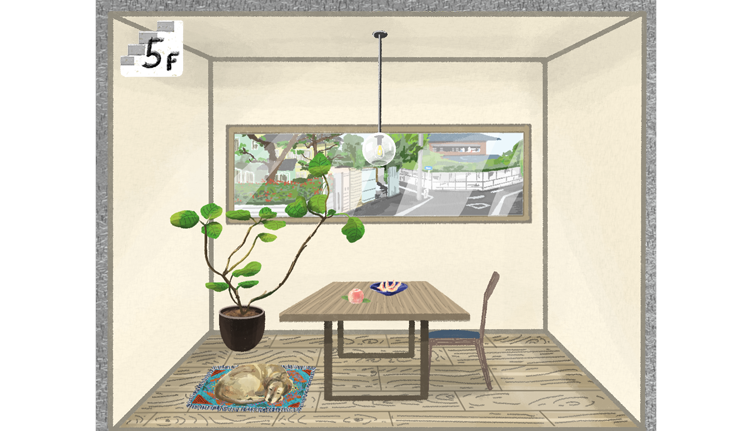
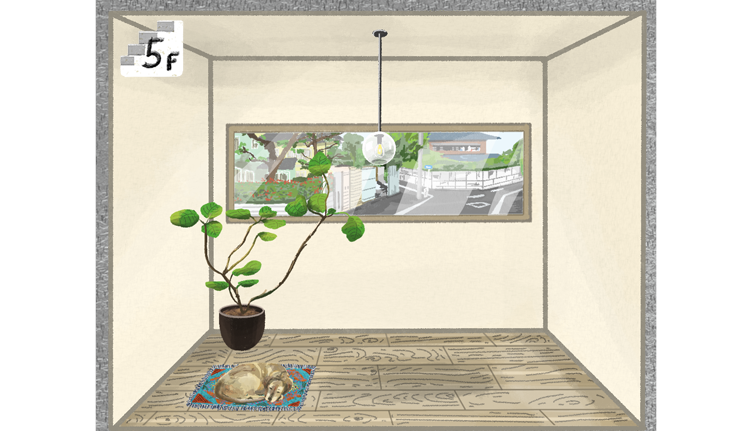
Floorを３レイヤ化。LivingModalの個別相談ボタンを色分け。ProjectionModalを実装途中。

diff --git a/src/components/virtualSpace/resident/modal/projectionModal.tsx b/src/components/virtualSpace/resident/modal/projectionModal.tsx
@@ -29,7 +29,7 @@ const useStyles = makeStyles((theme: Theme) =>
     programs: {
       display: "flex",
       flexFlow: "wrap",
-      marginBottom: '20px',
+      marginBottom: '30px',
     },
     buttonConcierge: {
       position: "fixed",
@@ -46,6 +46,11 @@ const useStyles = makeStyles((theme: Theme) =>
       marginBottom: "30px",
       borderWidth: "2px",
       margin: "0 auto",
+    },
+    guests: {
+      display: "flex",
+      justifyContent: 'center',
+      alignItems: 'center',
     },
   })
 );
@@ -79,40 +84,46 @@ const ProjectionModal: React.FC<IProjectionModalProps> = (props) => {
 
   const programs = [
     {
-      title: "参加者へのアンケート",
-      subtitle: "アイスブレイク",
-      start: "00:00",
-      end: "00:00",
+      title: "オープニング",
+      subtitle: "",
+      start: "10:00",
+      end: "",
     },
     {
-      title: "地方だからこそ！地方の魅力的な仕事",
-      subtitle: "しごとトークセッション①",
-      start: "00:00",
-      end: "00:00",
+      title: "求人票ではわからない、地方企業の魅力",
+      subtitle: "地方での就職セミナー",
+      start: "10:10",
+      end: "10:45",
     },
     {
-      title: "地方で求められる人材像とは",
-      subtitle: "しごとトークセッション②",
-      start: "00:00",
-      end: "00:00",
+      title: "都会での仕事にモヤモヤ？？「地方ならではの仕事の流儀」お伝えします！",
+      subtitle: "今だからこそ、聞いておきたい！先輩移住者トーク①",
+      start: "11:00",
+      end: "11:40",
     },
     {
-      title: "空き家 × 自然くらし",
-      subtitle: "ゲストトーク① 会津地域",
-      start: "00:00",
-      end: "00:00",
+      title: "市町村PR（ランチタイムトーク）",
+      subtitle: "",
+      start: "12:00",
+      end: "12:40",
     },
     {
-      title: "まちの仕掛人 × 街なかくらし",
-      subtitle: "ゲストトーク② 中通り地域",
-      start: "00:00",
-      end: "00:00",
+      title: "人と人とのつながりで生まれる、\n空き家を通じた地域活性化とは？",
+      subtitle: "今だからこそ、聞いておきたい！先輩移住者トーク①",
+      start: "14:00",
+      end: "14:40",
     },
     {
-      title: "サーフィン × 海のあるくらし",
-      subtitle: "ゲストトーク③ 浜通り地域",
-      start: "00:00",
-      end: "00:00",
+      title: "市町村PR（おやつタイムトーク）",
+      subtitle: "",
+      start: "15:00",
+      end: "15:40",
+    },
+    {
+      title: "終了",
+      subtitle: "",
+      start: "",
+      end: "17:00",
     },
   ].map((p, i) => <Program {...p} key={i} />);
 
@@ -141,6 +152,26 @@ const ProjectionModal: React.FC<IProjectionModalProps> = (props) => {
           プログラム
         </Typography>
         <ul className={classes.programs}>{programs}</ul>
+        <Typography variant="h3" className={classes.h3}>
+          ゲスト
+        </Typography>
+        <GuestLabel text={"地方での就職セミナー"} />
+        <Guest image={'image'} name={"金内　正"} job={'一般社団法人キャリア支援機構 理事長'} />
+        <GuestLabel text={"先輩移住者トーク①"} />
+        <div className={classes.guests}>
+          <Guest image={'image'} name={"斎藤　拓哉"} job={'空き家てらす\n隠れ家ゲストハウス'} />
+          <Guest image={'image'} name={"齋藤　康平"} job={'空き家てらす(株)\nなちゅらる'} />
+        </div>
+        <GuestLabel text={"先輩移住者トーク②"} />
+        <div className={classes.guests}>
+          <Guest image={'image'} name={"渡部　允道"} job={'ヘルベチカデザイン（株）\nまちの人事部'} />
+          <Guest image={'image'} name={"上神田　健太"} job={'家守舎桃ノ音アカリ\nFUKUSHIMA BONCHI'} />
+        </div>
+        <GuestLabel text={"先輩移住者トーク③"} />
+        <div className={classes.guests}>
+          <Guest image={'image'} name={"大和田　智之"} job={'南相馬市役所観光交流課\n交流推進係'} />
+          <Guest image={'image'} name={"後藤　彩"} job={'南相馬へ\nサーフィンに通う'} />
+        </div>
         <BackButton onClick={props.closeModal} />
       </Modal>
       {props.open && (
@@ -170,9 +201,12 @@ const useStylesProgram = makeStyles((theme: Theme) =>
       width: "100%",
       display: "flex",
       borderTop: "1px solid #000000",
-      padding: "5px",
+      paddingLeft: "5px",
+      paddingRight: "5px",
+      paddingTop: "10px",
+      paddingBottom: "10px",
       "&:nth-child(odd)": {
-        backgroundColor: "#ebebeb",
+        backgroundColor: "#fbedef",
       },
       "&:last-child": {
         borderBottom: "1px solid #000000",
@@ -198,9 +232,15 @@ const useStylesProgram = makeStyles((theme: Theme) =>
       flexFlow: "column",
       justifyContent: "center",
     },
-    subtitle: {
-      cmarginBottom: "5px",
-      color: "#919191",
+    titleText: {
+      whiteSpace: 'pre-wrap',
+    },
+    subtitleText: {
+      letterSpacing: '0',
+      fontSize: '10px',
+      marginTop: '5px',
+      marginBottom: '5px',
+      color: '#AE3345',
     },
   })
 );
@@ -227,9 +267,71 @@ const Program: React.FC<IProgramProps> = (props) => {
         </Typography>
       </div>
       <div className={classes.title}>
-        <Typography variant="body2">{props.subtitle}</Typography>
-        <Typography>{props.title}</Typography>
+        <Typography variant="body2" className={classes.subtitleText}>{props.subtitle}</Typography>
+        <Typography className={classes.titleText}>{props.title}</Typography>
       </div>
     </li>
+  );
+};
+
+const useStylesGuestLabel = makeStyles((theme: Theme) =>
+  createStyles({
+    text: {
+      border: 'solid 2px #AE3345',
+      borderRadius: '18px',
+      padding: '7px',
+      color: '#AE3345',
+      fontWeight: 600,
+      marginBottom: '10px',
+    },
+  })
+);
+export interface IGuestLabelProps {
+  text: string;
+}
+const GuestLabel: React.FC<IGuestLabelProps> = (props) => {
+  const classes = useStylesGuestLabel();
+  return (
+    <div className={classes.text}>
+      {props.text}
+    </div>
+  );
+};
+
+const useStylesGuest = makeStyles((theme: Theme) =>
+  createStyles({
+    root: {
+      display: 'flex',
+      flexFlow: 'column',
+      justifyContent: 'center',
+      alignItems: 'center',
+      marginBottom: '30px',
+    },
+    image: {
+      width: '40vw',
+      marginBottom: '10px',
+    },
+    name: {
+      fontWeight: 600,
+      marginBottom: '10px',
+    },
+    job: {
+      whiteSpace: "pre-wrap",
+    },
+  })
+);
+export interface IGuestProps {
+  image: string;
+  name: string;
+  job: string;
+}
+const Guest: React.FC<IGuestProps> = (props) => {
+  const classes = useStylesGuest();
+  return (
+    <div className={classes.root}>
+      <Image src={props.image} className={classes.image} />
+      <Typography className={classes.name}>{props.name}</Typography>
+      <Typography className={classes.job}>{props.job}</Typography>
+    </div>
   );
 };

diff --git a/src/components/virtualSpace/resident/modal/livingModal.tsx b/src/components/virtualSpace/resident/modal/livingModal.tsx
@@ -52,6 +52,7 @@ export type LivingContent = {
   type: string;
   icon: string;
   headerColor: string;
+  headerColorDark: string;
   title: string;
   visual: string;
   advisors: {
@@ -78,7 +79,7 @@ const LivingModal: React.FC<ILivingModalProps> = (props) => {
   const backHistoryContext = useContext(BackHistoryContext);
 
   const advisors = props.content.advisors.map((a, index) => (
-    <Advisor key={index} color={props.content.headerColor} {...a} />
+    <Advisor key={index} color={props.content.headerColor} colorDark={props.content.headerColorDark} {...a} />
   ));
 
   return (
@@ -147,6 +148,12 @@ const useStylesAdvisor = makeStyles((theme: Theme) =>
     button: {
       margin: "15px",
     },
+    // Override MuiButton-root
+    buttonRoot: {
+      borderRadius: "30px",
+      backgroundColor: (props: IAdvisorProps) => props.color,
+      borderBottom: (props: IAdvisorProps) => `solid 3px ${props.colorDark}`,
+    },
   })
 );
 export interface IAdvisorProps {
@@ -157,9 +164,10 @@ export interface IAdvisorProps {
     icon: string;
   };
   color: string;
+  colorDark: string;
 }
 const Advisor: React.FC<IAdvisorProps> = (props) => {
-  const classes = useStylesAdvisor();
+  const classes = useStylesAdvisor(props);
   return (
     <div className={classes.wrap}>
       <li className={classes.li} style={{ borderColor: props.color }}>
@@ -182,7 +190,8 @@ const Advisor: React.FC<IAdvisorProps> = (props) => {
             rel="noopener noreferrer"
             className={classes.button}
           >
-            <RoundButton variant="contained" color="secondary">
+            <RoundButton variant="contained" color="secondary" classes={{ root: classes.buttonRoot }}>
+
               個別相談
             </RoundButton>
           </a>

diff --git a/src/components/virtualSpace/floor/index.tsx b/src/components/virtualSpace/floor/index.tsx
@@ -16,6 +16,11 @@ const useStyles = makeStyles((theme: Theme) =>
     image: {
       width: "100%",
     },
+    image2: {
+      width: "100%",
+      position: "absolute",
+      pointerEvents: 'none',
+    },
     icon: {
       position: "absolute",
     },
@@ -25,6 +30,7 @@ const useStyles = makeStyles((theme: Theme) =>
 interface IFloorProps {
   number: number;
   visual: string;
+  visual2?: string;
   openedModal: string | null;
   openModal: (modalKey: string) => void;
   closeModal: () => void;
@@ -56,11 +62,14 @@ const Floor = React.memo(
       return <Icon image={i.icon.image} positionX={i.icon.positionX} positionY={i.icon.positionY} onClick={i.icon.onclick} />;
     });
 
+    const visual2 = (props.visual2) ? <Image src={props.visual2} className={classes.image2} /> : <React.Fragment />
+
     return (
       <Grid container className={classes.root} ref={ref}>
         <Image src={props.visual} className={classes.image} />
         {residents}
         {linkIcons}
+        {visual2}
       </Grid>
     );
   })

diff --git a/src/components/virtualSpace/index.tsx b/src/components/virtualSpace/index.tsx
@@ -3,6 +3,7 @@ import { makeStyles, createStyles, Theme } from "@material-ui/core/styles";
 import Grid from "@material-ui/core/Grid";
 import Floor from "./floor";
 import FloorImage1 from "@/image/virtualSpace/hotel_08.png";
+import FloorImage1_2 from "@/image/virtualSpace/hotel_08_2.png";
 import FloorImage2 from "@/image/virtualSpace/hotel_07.png";
 import FloorImage3 from "@/image/virtualSpace/hotel_06.png";
 import FloorImage4 from "@/image/virtualSpace/hotel_05.png";
@@ -28,6 +29,15 @@ const floorImages = [
   FloorImage5,
   FloorImage6,
   FloorImage7,
+];
+const floorImages2 = [
+  FloorImage1_2,
+  null,
+  null,
+  null,
+  null,
+  null,
+  null,
 ];
 
 const useStyles = makeStyles((theme: Theme) =>
@@ -55,6 +65,7 @@ const VirtualSpace: React.FC<IVirtualSpaceProps> = React.memo((props) => {
       key={i}
       number={i}
       visual={floorImages[i]}
+      visual2={floorImages2[i]}
       openedModal={props.openedModal}
       openModal={props.openModal}
       closeModal={props.closeModal}

diff --git a/src/components/virtualSpace/resident/data/_livingResidents.tsx b/src/components/virtualSpace/resident/data/_livingResidents.tsx
@@ -24,6 +24,7 @@ const LivingRegidents: Resident<LivingContent>[] = [
         type: "living",
         icon: birdTitle,
         headerColor: "#628FBD",
+        headerColorDark: "#42709f",
         title: "水辺でのくらし",
         visual: birdVisual,
         advisors: [
@@ -68,6 +69,7 @@ const LivingRegidents: Resident<LivingContent>[] = [
         type: "living",
         icon: bearTitle,
         headerColor: "#99BC81",
+        headerColorDark: "#739b58",
         title: "自然豊かな山あいのくらし",
         visual: bearVisual,
         advisors: [
@@ -112,6 +114,7 @@ const LivingRegidents: Resident<LivingContent>[] = [
         type: "living",
         icon: peachTitle,
         headerColor: "#BD8E6B",
+        headerColorDark: "#a57a59",
         title: "便利な街でのくらし",
         visual: peachVisual,
         advisors: [
